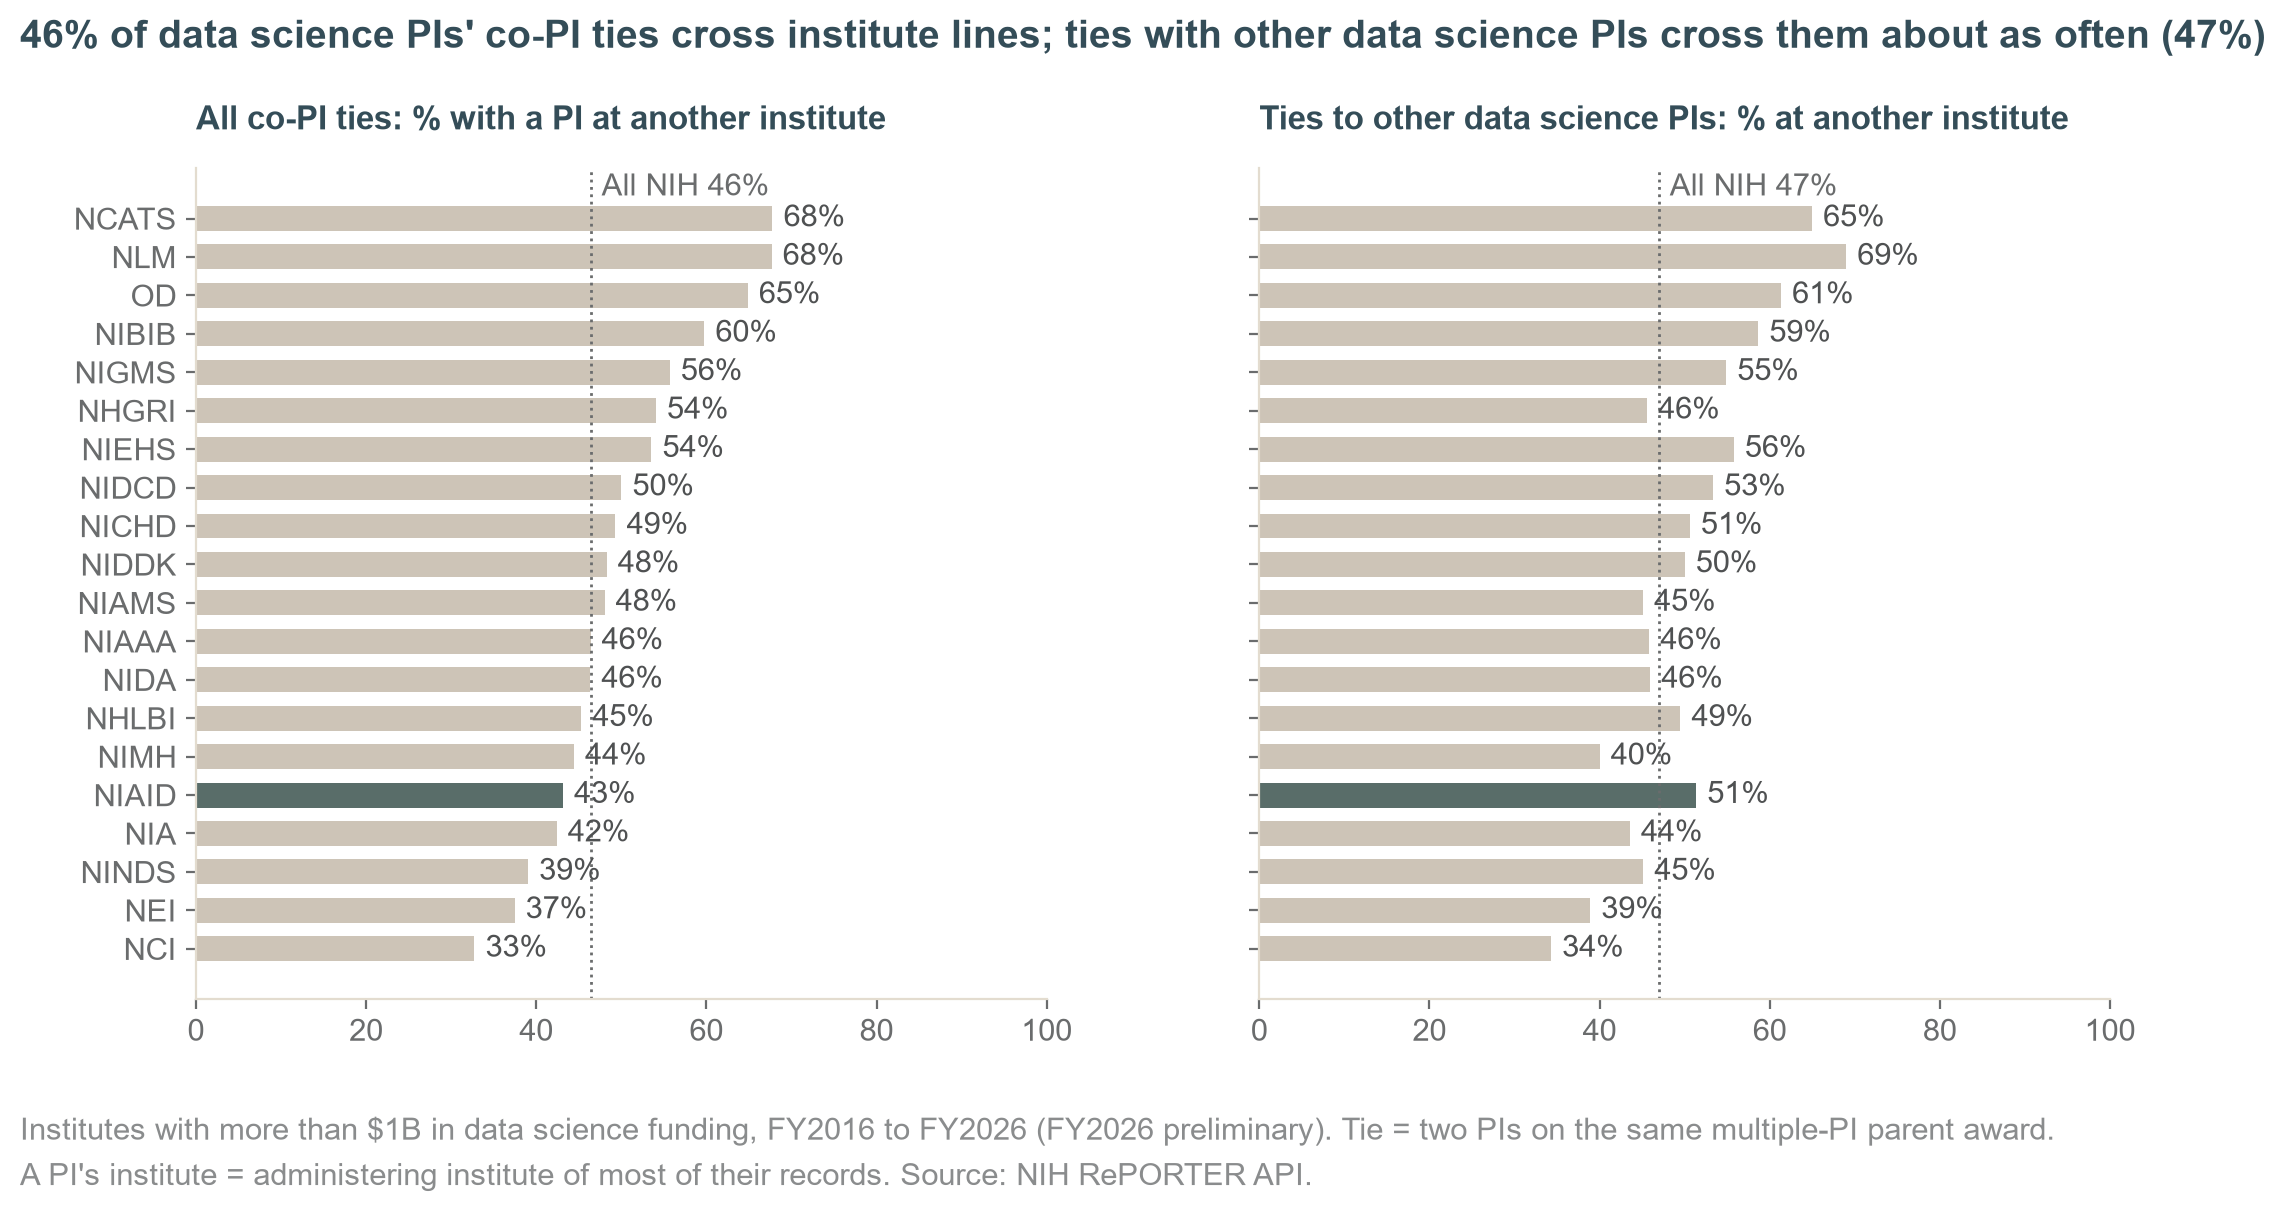
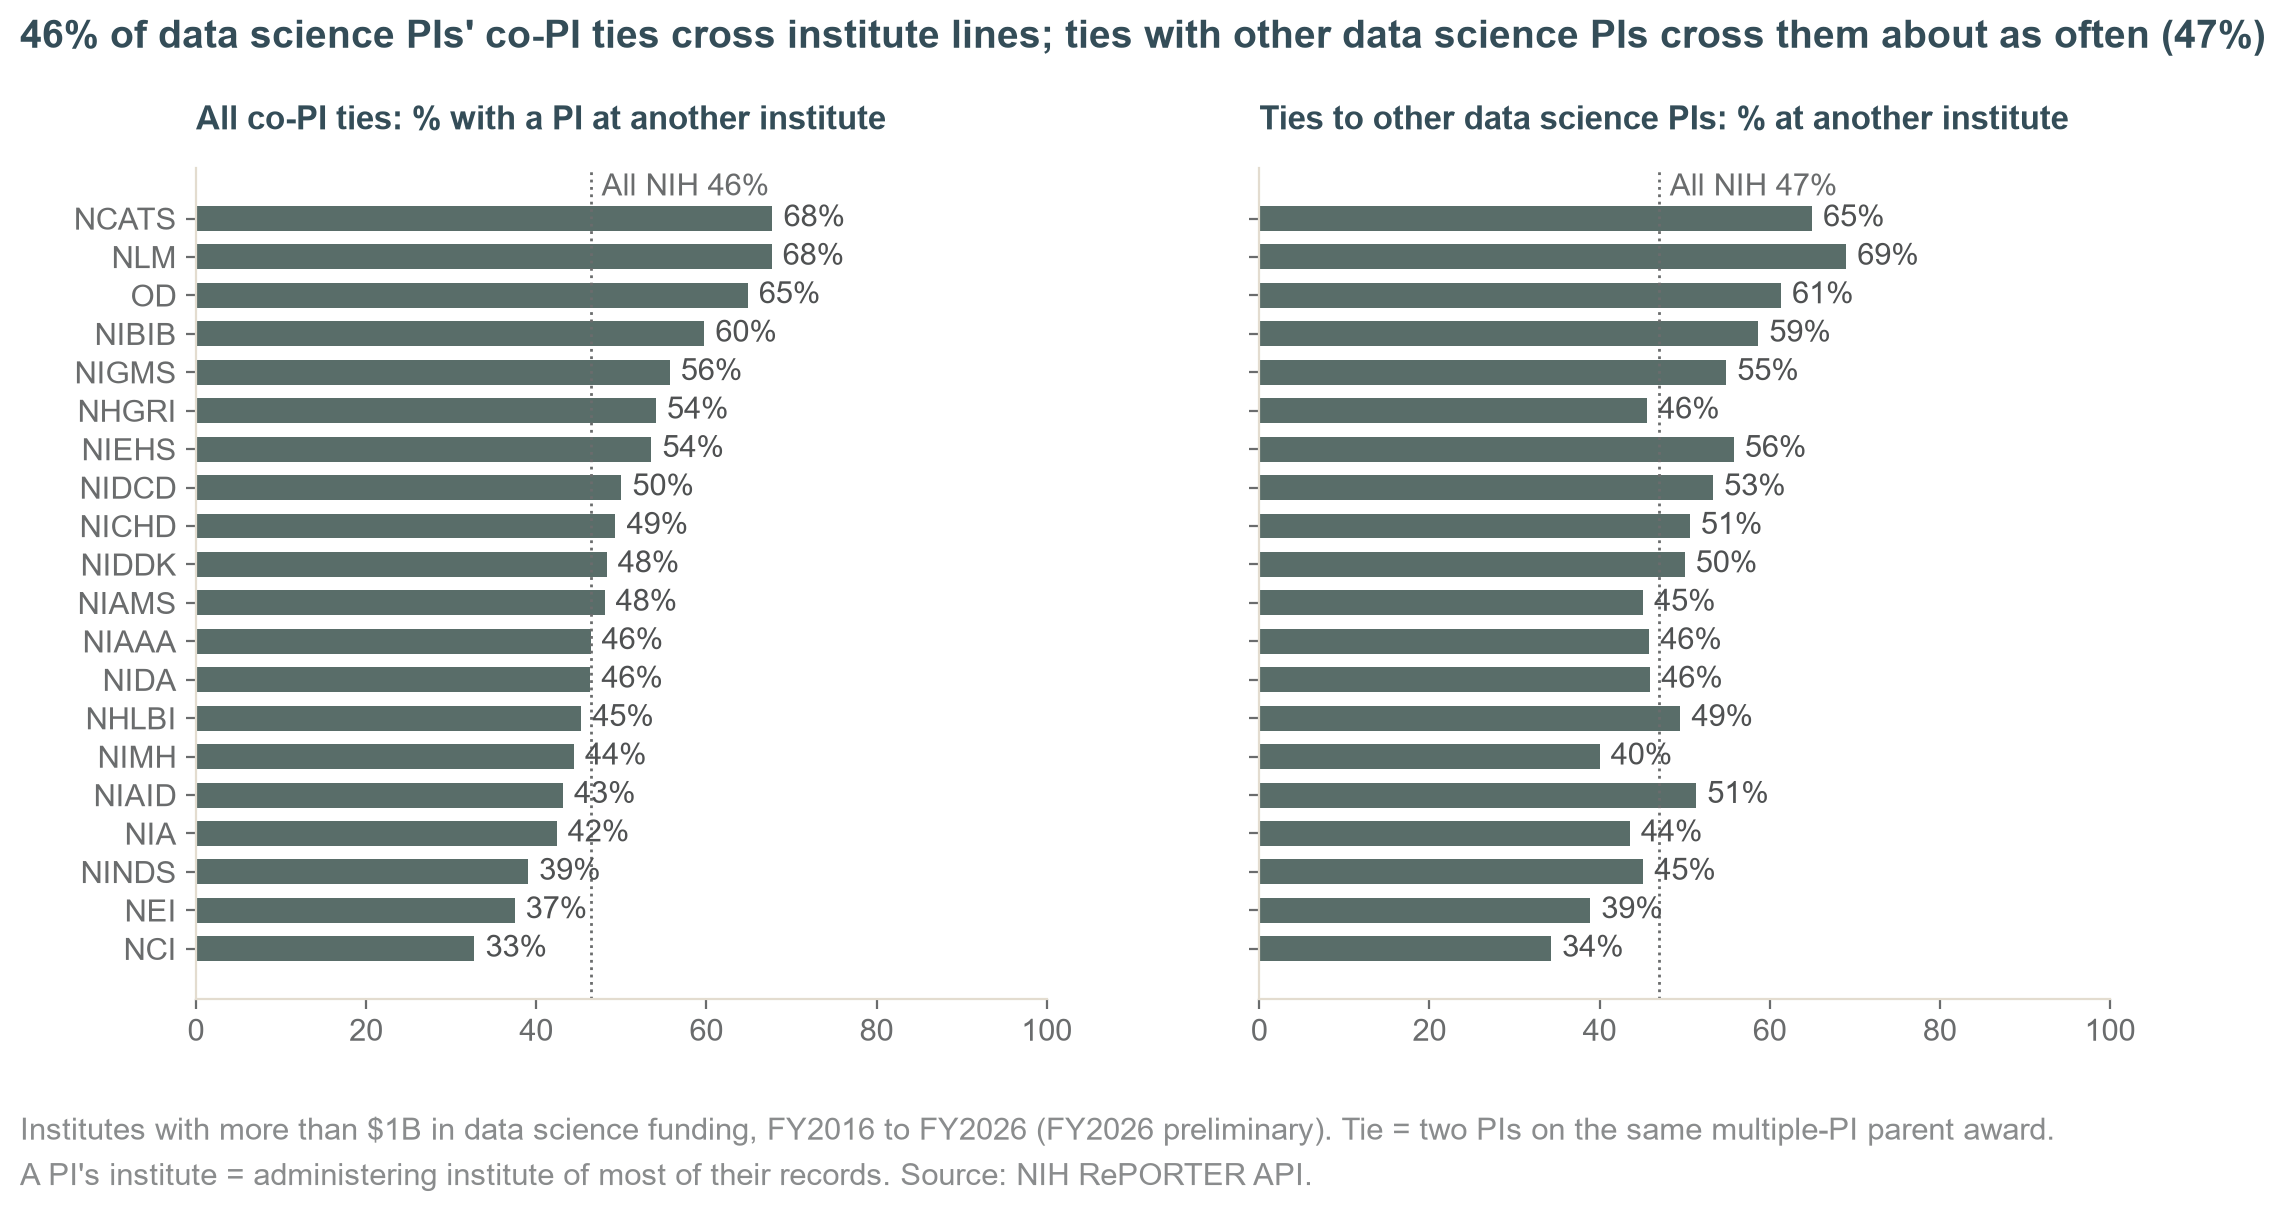
update network chart

Changed region(s): [[0.528, 0.1557, 0.8075, 0.8098], [0.0621, 0.1557, 0.3416, 0.8098]]

diff --git a/analyses/ds_pis/networks.py b/analyses/ds_pis/networks.py
@@ -63,7 +63,7 @@ FIG.mkdir(parents=True, exist_ok=True)
 SUPPRESS, SEED, MAX_PIS, SPLIT_FY = 11, 26, 10, 2021
 GROUP_COLORS = {"AI developer PIs": pal.ROLE_COLORS["develops_ai"], "Infrastructure builder PIs": pal.PROJECTS,
                 "Other data science PIs": pal.DATA_SCIENCE, "Other PIs": pal.NEUTRAL}
-FOCUS = SETTINGS.get("focus_ic")  # highlight one IC if set in config/local.yaml; otherwise none
+FOCUS = None  # public page: no institute is highlighted (focus_ic in config/local.yaml is for internal previews only)
 pal.use_style()
 
 

diff --git a/analyses/ds_pis/ds_pis.py b/analyses/ds_pis/ds_pis.py
@@ -46,7 +46,7 @@ PROCESSED, INTERIM = ROOT / "data" / "processed", ROOT / "data" / "interim"
 OUT, FIG = ROOT / "reports" / "results", ROOT / "reports" / "figures" / "ds_pis"
 FIG.mkdir(parents=True, exist_ok=True)
 SUPPRESS = 11
-FOCUS_IC = SETTINGS.get("focus_ic")  # highlight one IC if set (Laura's local config); otherwise none
+FOCUS_IC = None  # public page: no institute is highlighted (focus_ic in config/local.yaml is for internal previews only)
 pal.use_style()
 
 
